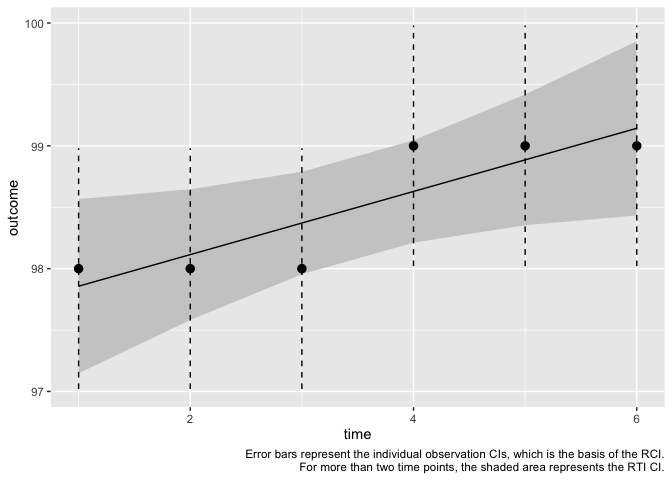
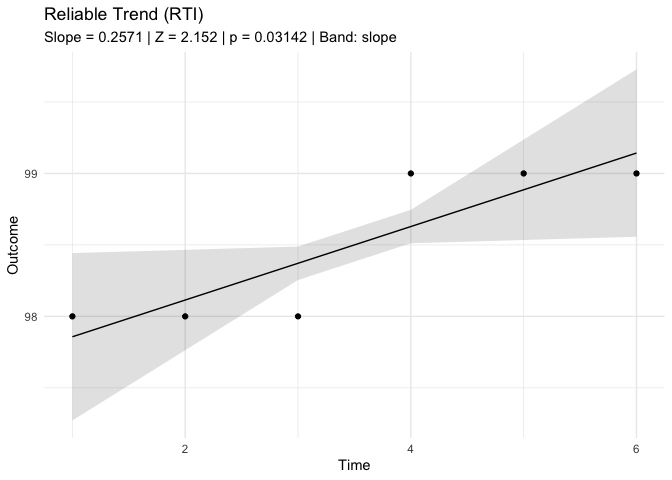
documentation, README, and summary.reliableTrend() method.

diff --git a/README.md b/README.md
@@ -285,17 +285,6 @@ of observations, the RTI will be defined differently:
 
 ``` r
 library(ReliableTrendIndex)
-#> Loading required package: dplyr
-#> 
-#> Attaching package: 'dplyr'
-#> The following objects are masked from 'package:stats':
-#> 
-#>     filter, lag
-#> The following objects are masked from 'package:base':
-#> 
-#>     intersect, setdiff, setequal, union
-#> Loading required package: ggplot2
-#> Loading required package: magrittr
 ```
 
 ### One person RCI
@@ -321,6 +310,8 @@ authors, is `4.74`.
 
 ``` r
 jt_rci_calc(difference = 15, sdiff = 4.74)
+#> Warning in jt_rci_calc(difference = 15, sdiff = 4.74): jt_rci_calc() is
+#> deprecated; use rci().
 #> [1] 3.164557
 ```
 
@@ -359,7 +350,9 @@ and last observations, which is commonly done in routine care and
 clinical trials analysis of clinically significant change:
 
 ``` r
-jt_rci_calc(difference = 1, sdiff = .7071068)
+jt_rci_calc(difference = 1, sdiff = .7071068) 
+#> Warning in jt_rci_calc(difference = 1, sdiff = 0.7071068): jt_rci_calc() is
+#> deprecated; use rci().
 #> [1] 1.414214
 ```
 
@@ -383,7 +376,6 @@ RCI and/or RTI - is `rti()`.
 
 ``` r
 mac_rti <- rti(mac_height$obs, sdiff = .707)
-#> More than two values provided, assuming they are evenly spaced in time.
 ```
 
 Note that it gave us this message on screen:
@@ -398,84 +390,34 @@ also called by just the object name):
 
 ``` r
 print(mac_rti)
-#> $RCI
-#> [1] 1.414427
-#> 
-#> $RTI
-#> [1] 2.151736
-#> 
-#> $pd.RCI
-#> [1] 0.9213817
-#> 
-#> $pd.RTI
-#> [1] 0.9842909
-#> 
-#> $category.RTI
-#> [1] "Reliable Increase"
-#> 
-#> $category.RCI
-#> [1] "Less than reliable"
-#> 
-#> $sign.RTI
-#> [1] "Increase"
-#> 
-#> $sign.difference
-#> [1] "Increase"
-#> 
-#> $values
-#> [1] 98 98 98 99 99 99
-#> 
-#> $values.prepost
-#> [1] 98 99
-#> 
-#> $error_var
-#> [1] 0.4999245
-#> 
-#> $cutpoint
-#> [1] 1.96
-#> 
-#> $observed
-#> [1] "obs_score"
-#> 
-#> $scale_RCI
-#> [1] 1.38572
-#> 
-#> $rmaObj
-#> 
-#> Fixed-Effects with Moderators Model (k = 6)
-#> 
-#> I^2 (residual heterogeneity / unaccounted variability): 0.00%
-#> H^2 (unaccounted variability / sampling variability):   0.34
-#> R^2 (amount of heterogeneity accounted for):            71.43%
-#> 
-#> Test for Residual Heterogeneity:
-#> QE(df = 4) = 1.3718, p-val = 0.8491
-#> 
-#> Test of Moderators (coefficient 2):
-#> QM(df = 1) = 4.6300, p-val = 0.0314
-#> 
-#> Model Results:
-#> 
-#>              estimate      se      zval    pval    ci.lb    ci.ub      
-#> intrcpt       97.6000  0.4654  209.7101  <.0001  96.6878  98.5122  *** 
-#> time_linear    0.2571  0.1195    2.1517  0.0314   0.0229   0.4914    * 
-#> 
-#> ---
-#> Signif. codes:  0 '***' 0.001 '**' 0.01 '*' 0.05 '.' 0.1 ' ' 1
+#> Reliable Trend Index (reliableTrend)
+#> n = 6  | sd = NA  | r = NA  | sem = NA 
+#> Slope (beta1): 0.2571 SE: 0.1195 Z: 2.152 p: 0.03142
 ```
 
 An additional text summary can be found using `summary()`.
 
 ``` r
 summary(mac_rti)
-#> 
-#> Reliable Trend Analysis:
-#> 
-#> This sequence of 6 values has a Reliable Increase using the RTI.
-#> The likelihood of an overall Increase in true score is 0.98429 using the RTI.
-#> 
-#> A pre-post analysis would have a Less than reliable change using the RCI.
-#> The likelihood of Increase given just the pre-post values is 0.92138.
+#>            Length Class  Mode   
+#> estimate   1      -none- numeric
+#> intercept  1      -none- numeric
+#> se         1      -none- numeric
+#> z          1      -none- numeric
+#> p          1      -none- numeric
+#> ci         2      -none- numeric
+#> sigma2     1      -none- numeric
+#> t          6      -none- numeric
+#> t_centered 6      -none- numeric
+#> y          6      -none- numeric
+#> Sxx        1      -none- numeric
+#> n          1      -none- numeric
+#> sd         1      -none- numeric
+#> r          1      -none- numeric
+#> sem        1      -none- numeric
+#> sdiff      1      -none- numeric
+#> level      1      -none- numeric
+#> call       3      -none- call
 ```
 
 So now we can clearly see that the RCI, by ignoring the interim
